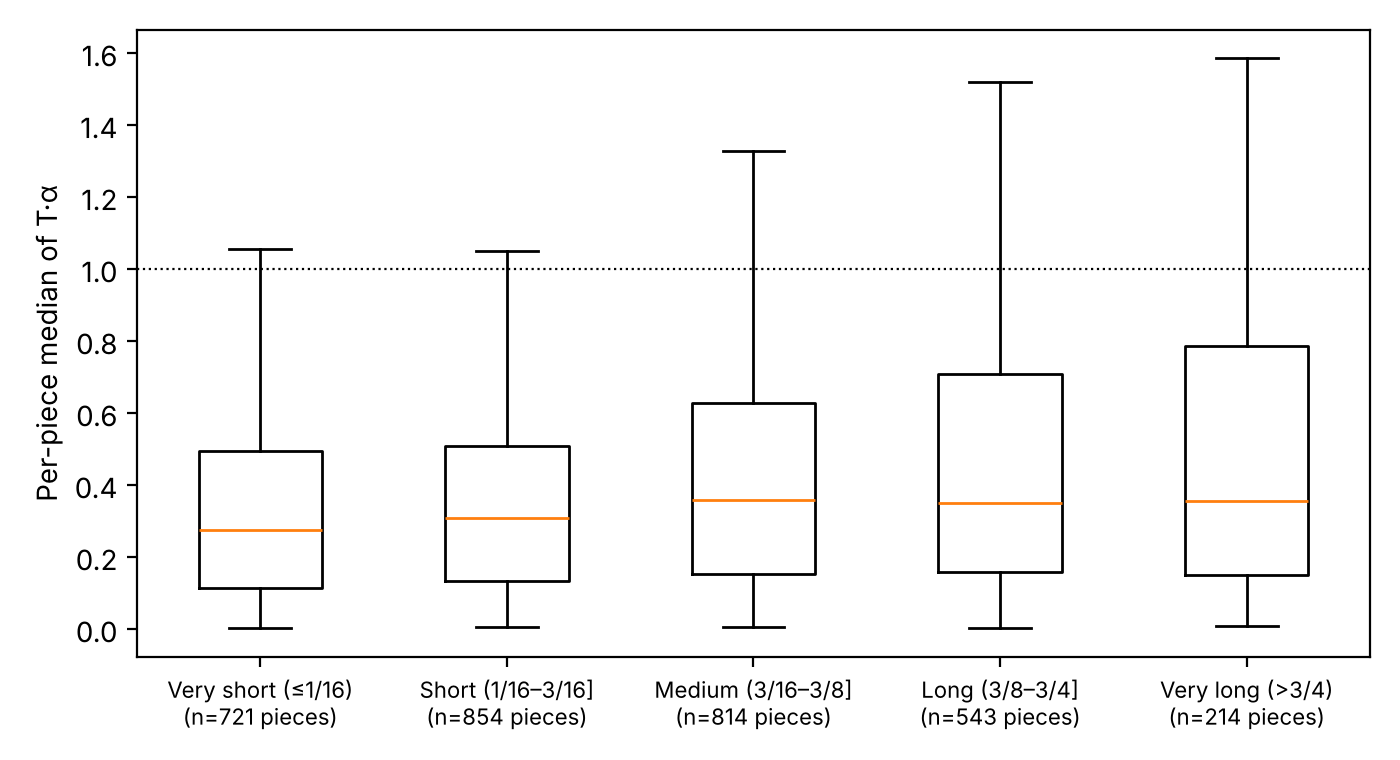
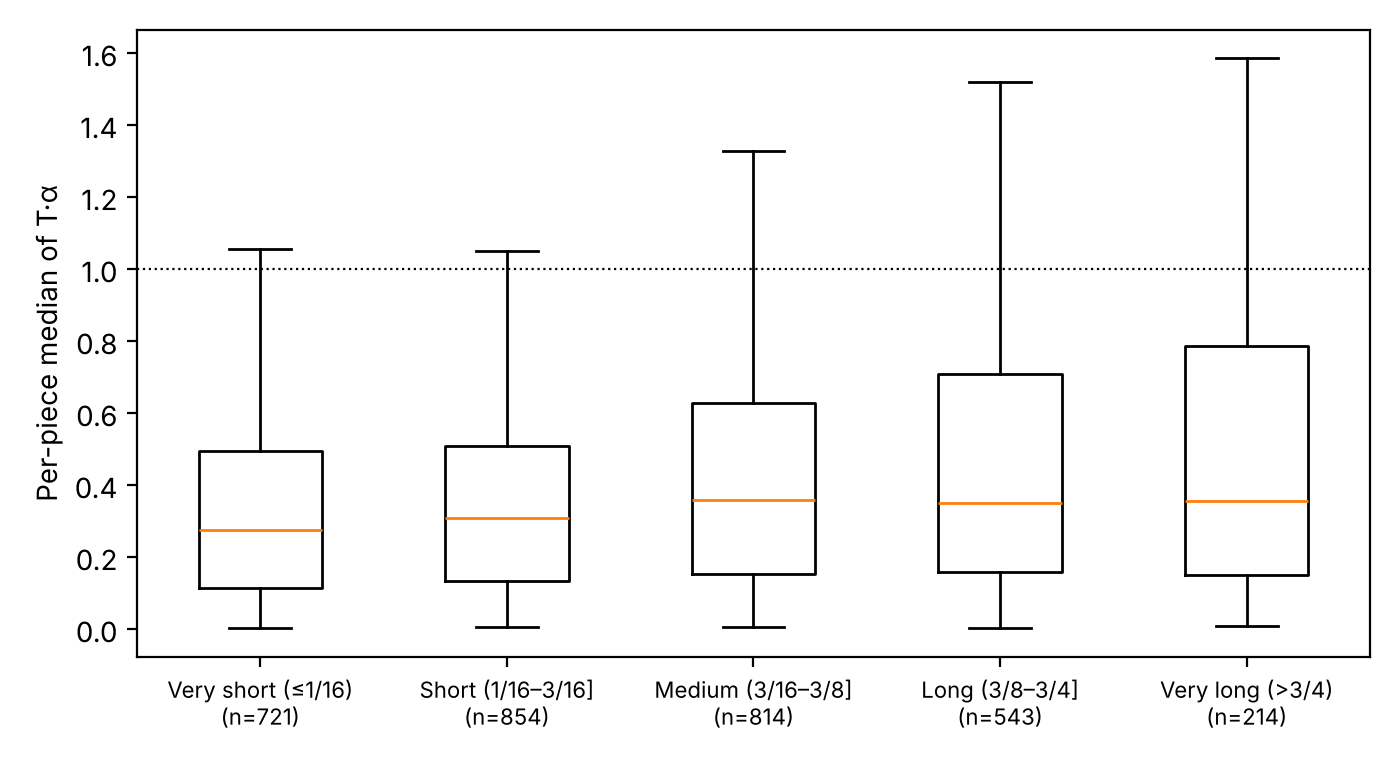
Figure label tweak
Claude-Session: https://claude.ai/code/session_01TTyWiMUwnEMHDkeaZJLKxw

diff --git a/attention_analysis.py b/attention_analysis.py
@@ -324,7 +324,7 @@ def figures(df, enr, fig_dir, tag, pitch_order=False):
     ax.boxplot(data, showfliers=False)
     ax.axhline(1, color="k", ls=":", lw=0.8)
     ax.set_xticks(range(1, 6))
-    ax.set_xticklabels([f"{b}\n(n={len(d)} pieces)" for b, d in zip(BIN_LABELS, data)], fontsize=8)
+    ax.set_xticklabels([f"{b}\n(n={len(d)})" for b, d in zip(BIN_LABELS, data)], fontsize=8)
     ax.set_ylabel("Per-piece median of T·α")
     fig.tight_layout()
     fig.savefig(os.path.join(fig_dir, f"duration_bins_{tag}.pdf"))
